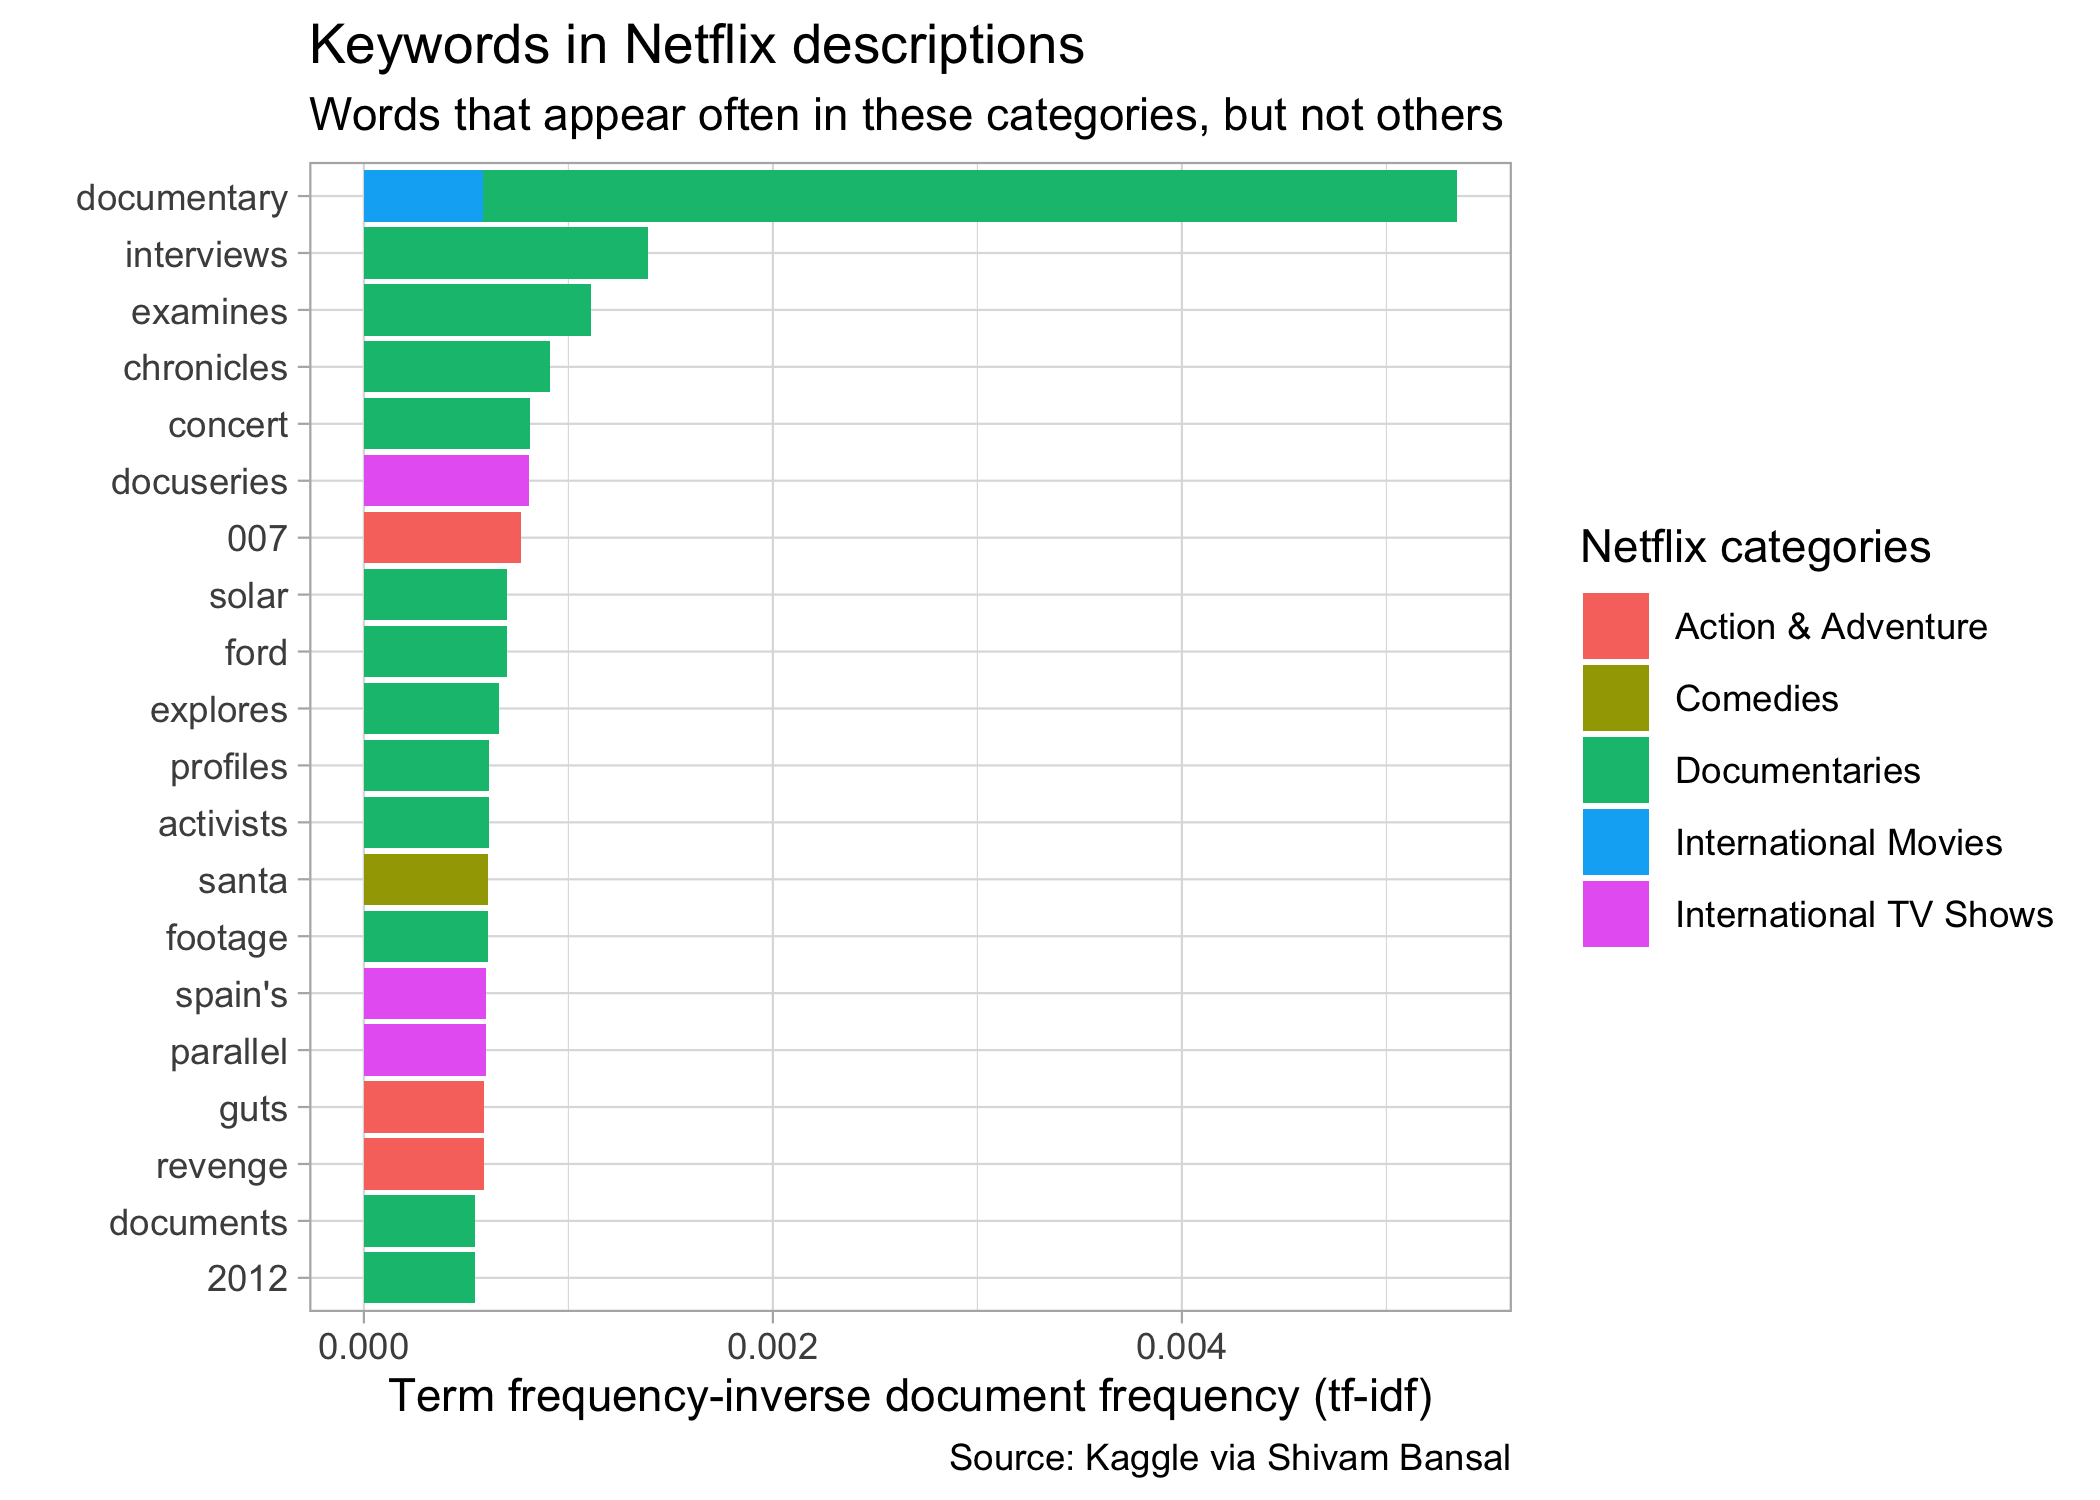
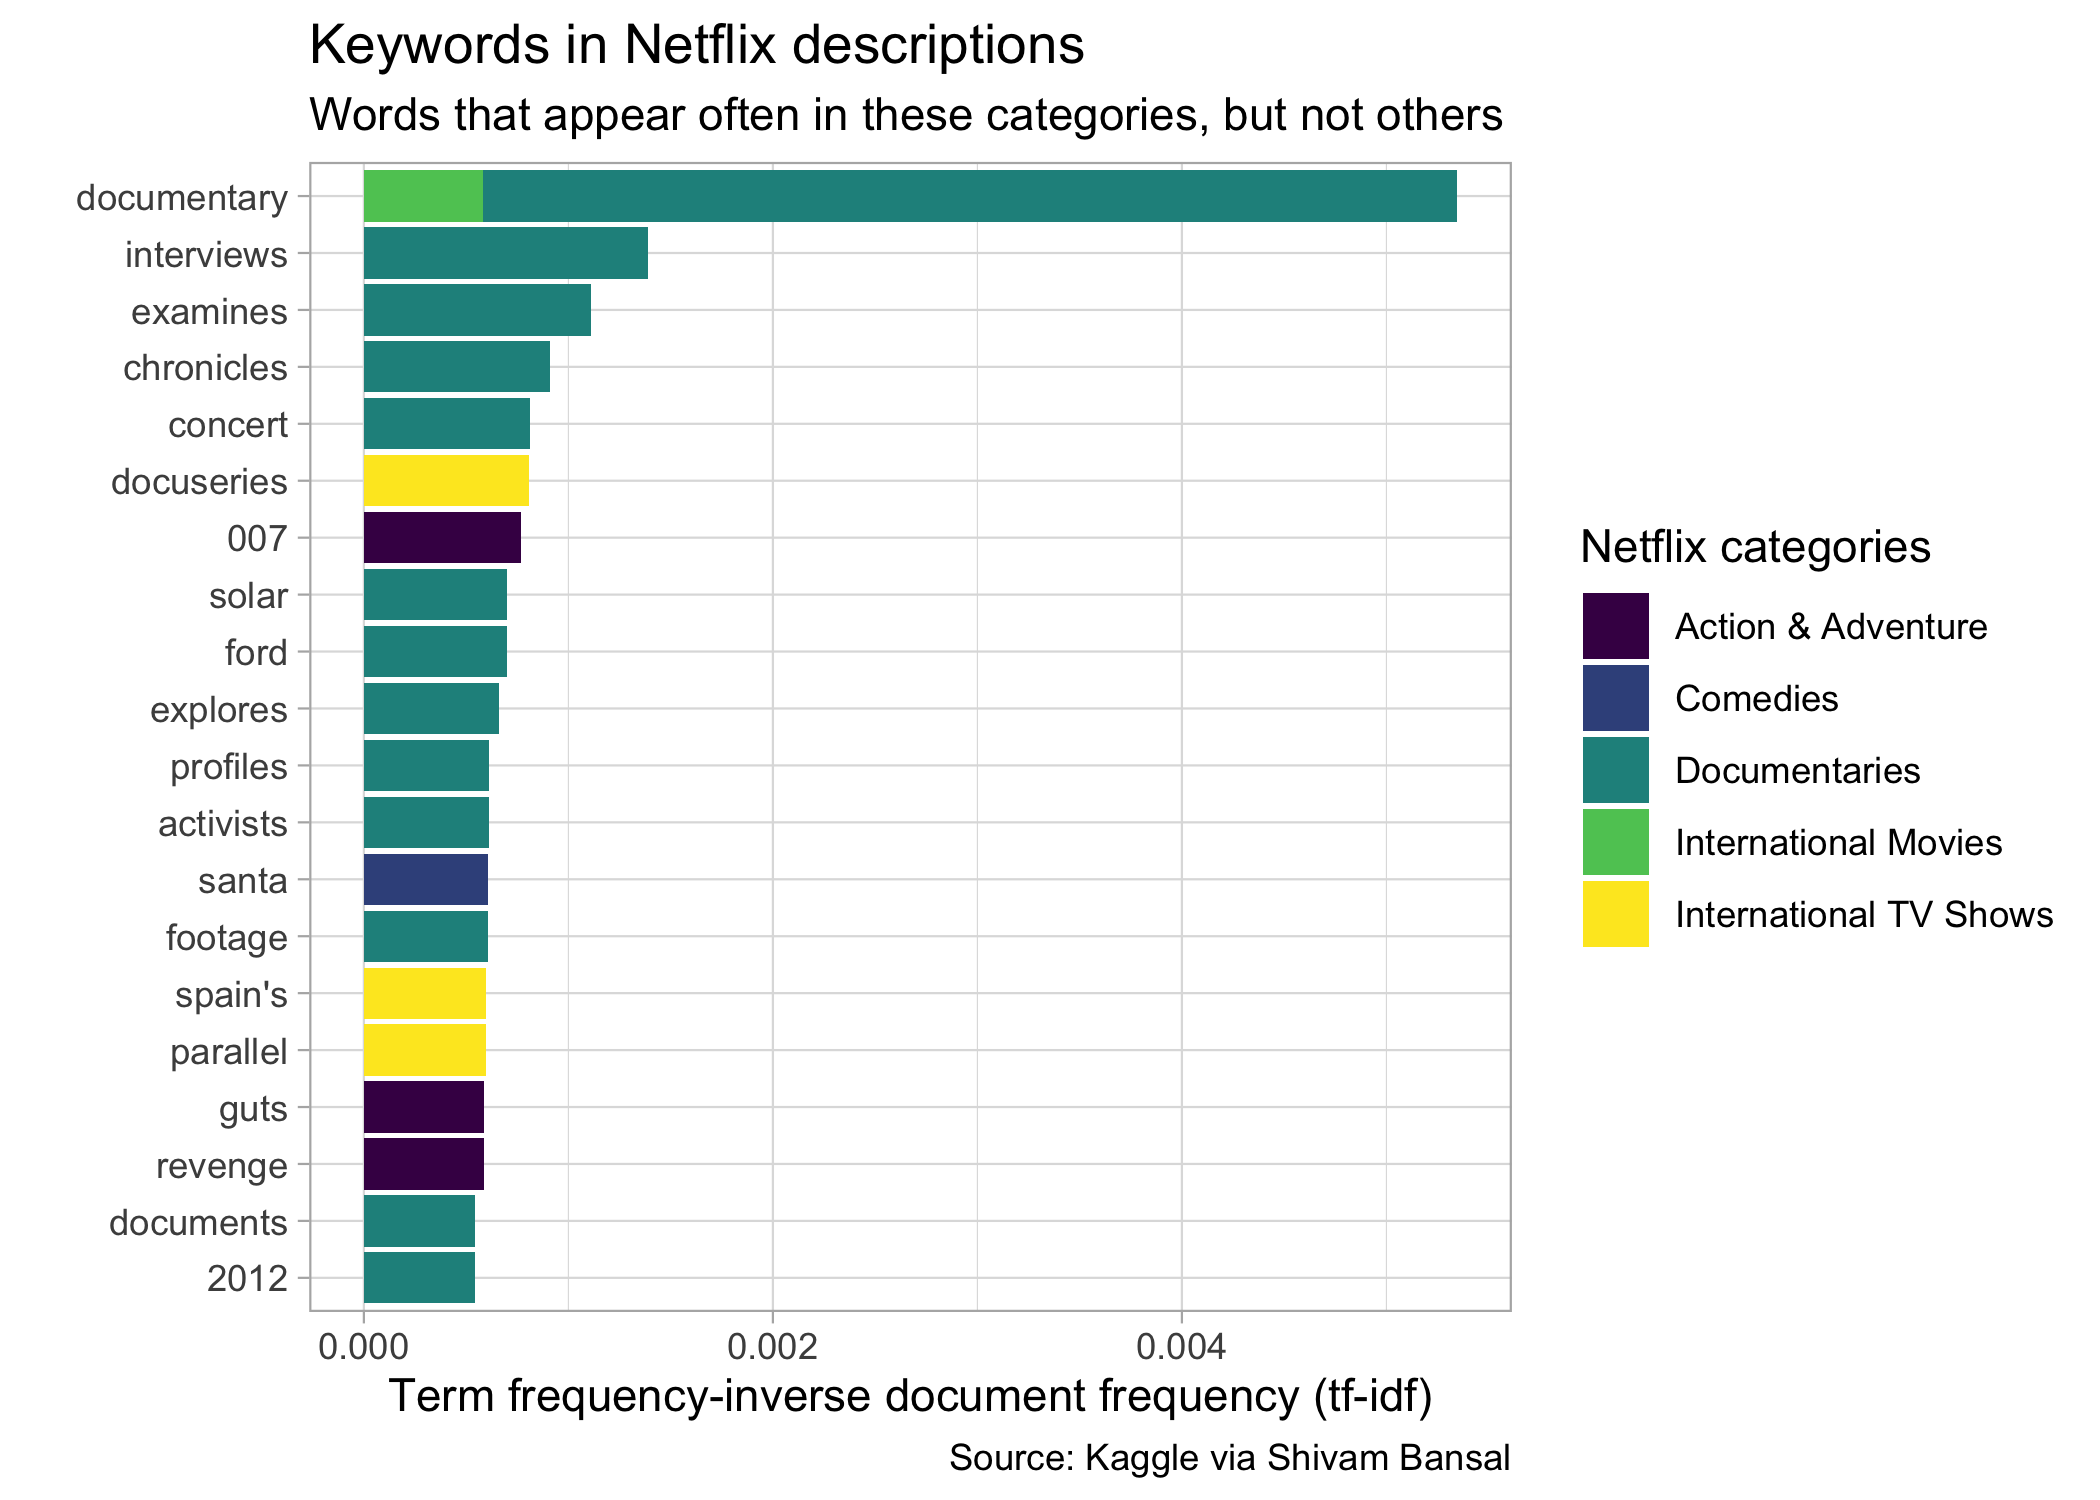
Updated various figures, README and added w27

Changed region(s): [[0.1548, 0.092, 0.7119, 0.8893], [0.7429, 0.3987, 0.8048, 0.644]]

diff --git a/README.md b/README.md
@@ -1,6 +1,6 @@
 # tidy-tuesday
 
-`#TidyTuesday` data sets provided by the `#R4DS Online Learning Community`
+`#TidyTuesday` data sets provided by the `#R4DS Online Learning Community`. _A weekly data project aimed at the R ecosystem_.
 
 Following and learning, and trying to copy and improve my own skills in R programming.
 
